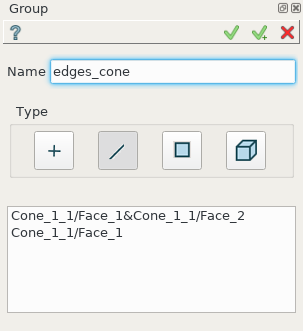
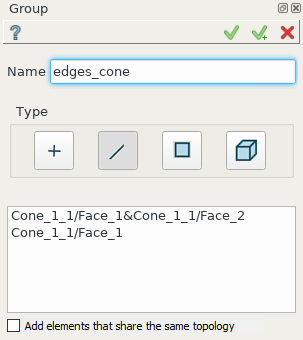
Fix for the issue #2808 : Documentation on the "Groups" panel. Added description of "Add elements that share the same topology" flag.

diff --git a/src/CollectionPlugin/doc/groupFeature.rst b/src/CollectionPlugin/doc/groupFeature.rst
@@ -43,10 +43,9 @@ Input fields:
          :align: left	       
     Solids;
  
-- The list of selected entities of the given type.  Multiple selection can be done manually in OCC 3D Viewer by mouse click with Shift button pressed or by rectangle selection.
+- The list of selected entities of the given type.  Multiple selection can be done manually in OCC 3D Viewer by mouse click with Shift button pressed or by rectangle selection. To delete entities from the list, select them and call pop-up menu *Delete* item.
 
-To delete entities from the list, select them and call pop-up menu *Delete* item.
-
+- Control **Add elements that share the same topology** allows to add automatically all elements laying on the same topology that was selected and remove these elements if they are disappeared due to the parametrical update. They will be represented as one line in the list of selection and managed in the viewer as one object if this flag is enabled. If flag becomes disabled when such elements are already in the list, they will become divided in one line per one shape.
 
 **TUI Command**: *model.addGroup(Part_1_doc, [model.selection("EDGE", "Cone_1_1/Face_1&Cone_1_1/Face_2"), model.selection("EDGE", "Cone_1_1/Face_1")])*
 
